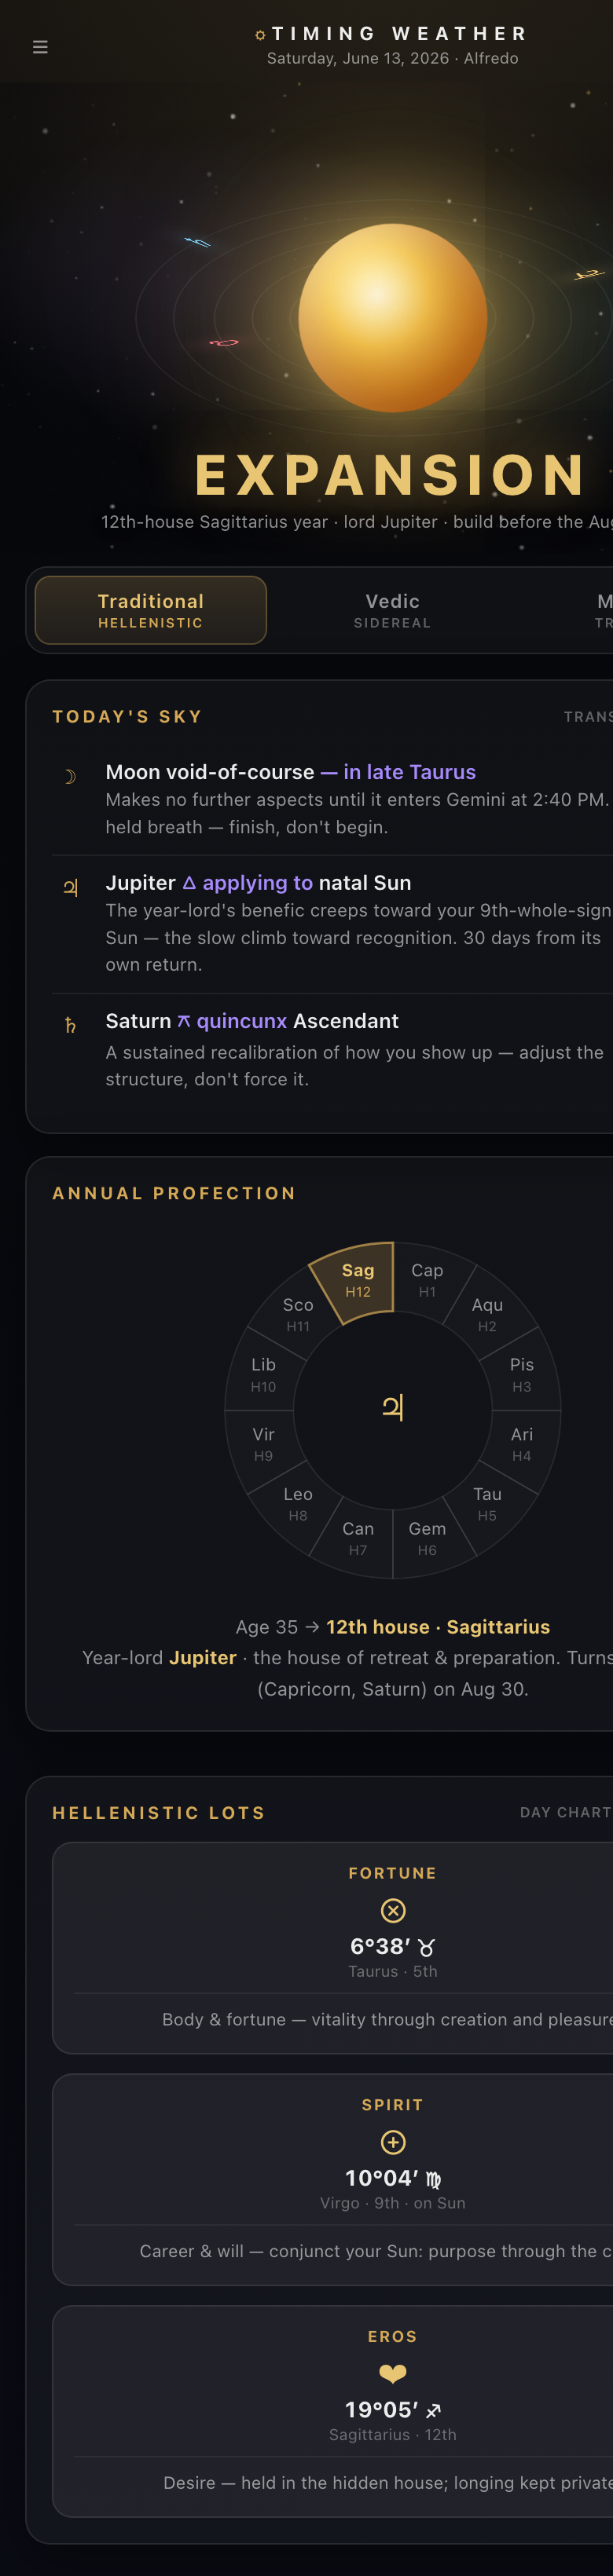
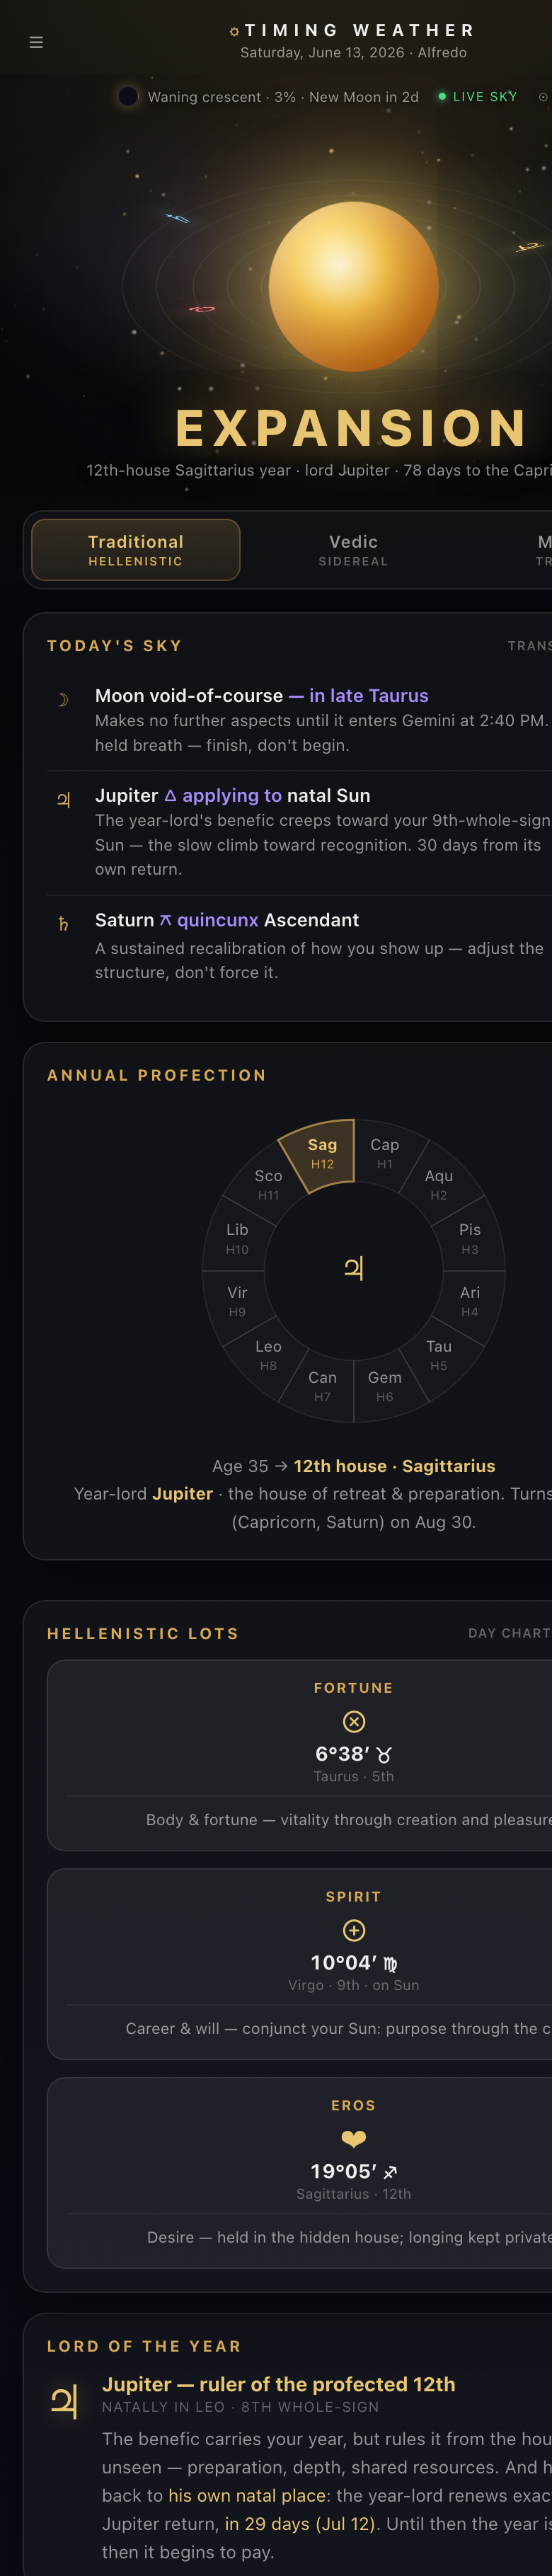
feat(three-lens): live compute + aspect grid + lord-of-year + desktop
ALL FOUR threads: (1) hero shows real moon phase, current Sun longitude, and
profection countdown computed from today's date; (2) added natal Aspect grid
(Modern, computed from authoritative positions) + Lord-of-Year card
(Traditional); (3) Lots/profection/aspects/moon now derived client-side so
they self-update by date; (4) responsive desktop layout (wider shell, grander
hero, 2-col card rows). D9 left as stated key placements (not fabricated —
computed navamsa conflicts with the authoritative Gemini lagna). Mockup only.

diff --git a/timing-weather/design_exploration_2026-06-12/three-lens-dashboard.html b/timing-weather/design_exploration_2026-06-12/three-lens-dashboard.html
@@ -167,6 +167,46 @@ body{font-family:var(--sans);color:var(--t);-webkit-font-smoothing:antialiased;m
 .contrast .prose{font-style:italic;color:var(--gold-br)}
 
 .foot-tag{text-align:center;font-size:10px;color:var(--t3);margin-top:8px;letter-spacing:.03em}
+
+/* moon phase + current sky (hero) */
+.skybar{position:absolute;left:0;right:0;top:8px;z-index:5;display:flex;justify-content:center;gap:14px;font-size:10px;color:var(--t2);text-shadow:0 1px 6px rgba(0,0,0,.9)}
+.skybar .it{display:inline-flex;align-items:center;gap:6px}
+.moondisc{width:15px;height:15px;border-radius:50%;background:#0c0c14;position:relative;overflow:hidden;box-shadow:0 0 8px rgba(232,197,115,.35),inset 0 0 0 1px rgba(255,255,255,.12)}
+.moondisc i{position:absolute;inset:0;background:radial-gradient(circle at 35% 35%,#fff,#d9d2b0 70%,#b8b090)}
+.live-chip{display:inline-flex;align-items:center;gap:5px;font-size:9px;letter-spacing:.08em;text-transform:uppercase;color:var(--green)}
+.live-chip .dot{width:5px;height:5px;border-radius:50%;background:var(--green);box-shadow:0 0 6px var(--green)}
+
+/* aspect grid */
+.asp{display:flex;flex-direction:column}
+.asprow{display:grid;grid-template-columns:1fr auto auto;align-items:center;gap:10px;padding:8px 0;border-bottom:1px solid var(--line);font-size:13px}
+.asprow:last-child{border-bottom:none}
+.asprow .pair b{font-family:var(--sans)}
+.asprow .sym{font-size:15px;color:var(--violet)}
+.asprow .orb{font-size:10px;color:var(--t3);font-variant-numeric:tabular-nums}
+.asprow .nm{font-size:9px;letter-spacing:.06em;text-transform:uppercase;color:var(--t3);width:74px;text-align:right}
+.asp .hard .sym{color:var(--orange)}.asp .soft .sym{color:var(--cyan)}.asp .conj .sym{color:var(--gold-br)}
+
+/* lord of year */
+.loy{display:flex;gap:14px;align-items:flex-start}
+.loy .big{font-size:34px;color:var(--gold-br);line-height:1;filter:drop-shadow(0 0 8px rgba(212,168,87,.4))}
+.loy .b .h{font-size:14px;font-weight:700;color:var(--gold-br)}
+.loy .b .sub{font-size:10px;color:var(--t3);text-transform:uppercase;letter-spacing:.06em;margin:2px 0 7px}
+.loy .b p{font-size:12.5px;line-height:1.6;color:var(--t2)}
+
+/* ── DESKTOP / iPad: wider shell, grander hero, denser rows ── */
+@media(min-width:860px){
+  .shell{max-width:1040px;padding:0 28px}
+  .solar{height:360px;margin:6px -28px 14px}
+  .sun{width:150px;height:150px;margin:-75px 0 0 -75px;top:180px}
+  .field{top:180px}
+  .solar .label .ph{font-size:52px;letter-spacing:.16em}
+  .solar .label{bottom:24px}
+  .lensnav button{font-size:14px;padding:12px}
+  .lensnav button .sm{font-size:9.5px}
+  .cols2{grid-template-columns:1fr 1fr}     /* keep two-up on wide screens */
+  .lots{grid-template-columns:repeat(3,1fr)}
+  .dchart{grid-template-rows:repeat(4,72px)}
+}
 </style>
 </head>
 <body>
@@ -185,7 +225,12 @@ body{font-family:var(--sans);color:var(--t);-webkit-font-smoothing:antialiased;m
     <div class="field" id="field"></div>
     <div class="sun"></div>
     <div class="vig"></div>
-    <div class="label"><div class="ph">EXPANSION</div><div class="sub">12th-house Sagittarius year · lord Jupiter · build before the August turn</div></div>
+    <div class="skybar">
+      <span class="it"><span class="moondisc"><i id="moon-lit"></i></span><span id="moon-txt">—</span></span>
+      <span class="it"><span class="live-chip"><span class="dot"></span>Live sky</span></span>
+      <span class="it" id="sky-sun">☉ —</span>
+    </div>
+    <div class="label"><div class="ph">EXPANSION</div><div class="sub" id="hero-sub">12th-house Sagittarius year · lord Jupiter · build before the August turn</div></div>
   </div>
 
   <!-- LENS NAV -->
@@ -220,6 +265,11 @@ body{font-family:var(--sans);color:var(--t);-webkit-font-smoothing:antialiased;m
             <div class="lot"><div class="name">Eros</div><div class="glyph">❤</div><div class="pos">19°05′ ♐</div><div class="hs">Sagittarius · 12th</div><div class="mean">Desire — held in the hidden house; longing kept private.</div></div>
           </div>
         </div>
+      </div>
+
+      <div class="card">
+        <div class="sh">Lord of the Year</div>
+        <div class="loy"><div class="big">♃</div><div class="b"><div class="h">Jupiter — ruler of the profected 12th</div><div class="sub">natally in Leo · 8th whole-sign</div><p>The benefic carries your year, but rules it from the houses of the unseen — preparation, depth, shared resources. And he is walking back to <span style="color:var(--gold-br)">his own natal place</span>: the year-lord renews exactly at the Jupiter return, <span style="color:var(--gold-br)" id="loy-days">~Jul 12</span>. Until then the year is setup; from then it begins to pay.</p></div></div>
       </div>
     </section>
 
@@ -283,6 +333,11 @@ body{font-family:var(--sans);color:var(--t);-webkit-font-smoothing:antialiased;m
         <div class="sh">Natal Wheel <span class="sub">tropical · Placidus · all planets</span></div>
         <svg viewBox="0 0 300 300" id="wheel" style="width:100%;height:auto;max-width:330px;display:block;margin:0 auto"></svg>
         <div class="legend" id="legend"></div>
+      </div>
+
+      <div class="card">
+        <div class="sh">Natal Aspects <span class="sub">tightest orbs · computed</span></div>
+        <div class="asp" id="aspect-list"></div>
       </div>
 
       <div class="card">
@@ -415,6 +470,55 @@ function noEmoji(root){
   sl.addEventListener('touchend',e=>{const dx=e.changedTouches[0].clientX-sx;if(Math.abs(dx)<50)return;
     const order=['trad','vedic','modern'];const cur=order.indexOf(document.querySelector('.slide.on').dataset.lens);
     const ni=Math.max(0,Math.min(2,cur+(dx<0?1:-1)));nav.children[ni].click();});
+})();
+
+/* ---- LIVE ASTRO COMPUTE — derived client-side from natal constants + today ---- */
+(function(){
+  const NAT={ASC:278.35,Sun:157.23,Moon:275.52,Mercury:172.17,Venus:140.8,Mars:59.7,Jupiter:122.6,
+    Saturn:289.13,Uranus:275.68,Neptune:281.93,Pluto:225.32,Node:306.98,MC:213.9};
+  const GLY=['♈','♉','♊','♋','♌','♍','♎','♏','♐','♑','♒','♓'];
+  const now=new Date();
+  const fmtDeg=x=>{x=((x%360)+360)%360;const s=Math.floor(x/30);return Math.floor(x-30*s)+'°'+GLY[s];};
+
+  // moon phase — ref new moon 2000-01-06 18:14 UTC, synodic month
+  const syn=29.530588853, ref=Date.UTC(2000,0,6,18,14);
+  const ageM=(((now-ref)/86400000)%syn+syn)%syn;
+  const illum=Math.round((1-Math.cos(2*Math.PI*ageM/syn))/2*100);
+  const waxing=ageM<syn/2, toNew=Math.max(1,Math.round((syn-ageM)%syn));
+  let phase; if(ageM<1||ageM>syn-1)phase='New Moon';else if(ageM<6.4)phase='Waxing crescent';
+    else if(ageM<8.6)phase='First quarter';else if(ageM<13.8)phase='Waxing gibbous';
+    else if(ageM<15.8)phase='Full Moon';else if(ageM<21.1)phase='Waning gibbous';
+    else if(ageM<23.3)phase='Last quarter';else phase='Waning crescent';
+  const mt=document.getElementById('moon-txt'); if(mt)mt.textContent=`${phase} · ${illum}% · New Moon in ${toNew}d`;
+  const lit=document.getElementById('moon-lit');
+  if(lit)lit.style.clipPath=waxing?`inset(0 ${100-illum}% 0 0)`:`inset(0 0 0 ${100-illum}%)`;
+
+  // approx current Sun longitude (from ~2026 vernal equinox)
+  const eqx=Date.UTC(2026,2,20,14,0); let sun=((now-eqx)/86400000*0.98565)%360; sun=((sun%360)+360)%360;
+  const ss=document.getElementById('sky-sun'); if(ss)ss.textContent='☉ '+fmtDeg(sun);
+
+  // profection from birth 1990-08-30
+  const m=now.getUTCMonth(),d=now.getUTCDate(); const had=(m>7)||(m===7&&d>=30);
+  let ageY=now.getUTCFullYear()-1990; if(!had)ageY--; const house=(ageY%12)+1;
+  const turn=Date.UTC(now.getUTCFullYear()+(had?1:0),7,30); const dTurn=Math.ceil((turn-now)/86400000);
+  // Jupiter return Jul 12 2026
+  const dJR=Math.ceil((Date.UTC(2026,6,12)-now)/86400000);
+  const loy=document.getElementById('loy-days'); if(loy)loy.textContent=dJR>0?`in ${dJR} days (Jul 12)`:'Jul 12';
+  const hs=document.getElementById('hero-sub');
+  if(hs&&house===12)hs.textContent=`12th-house Sagittarius year · lord Jupiter · ${dTurn} days to the Capricorn turn`;
+
+  // natal aspects (major, tightest first)
+  const order=Object.keys(NAT);
+  const ASP=[['☌',0,7,'conj','Conjunction'],['☍',180,7,'hard','Opposition'],['△',120,6,'soft','Trine'],['□',90,6,'hard','Square'],['⚹',60,4,'soft','Sextile']];
+  const found=[];
+  for(let i=0;i<order.length;i++)for(let j=i+1;j<order.length;j++){
+    let dd=Math.abs(NAT[order[i]]-NAT[order[j]])%360; if(dd>180)dd=360-dd;
+    for(const[sym,deg,orb,cls,nm]of ASP){const o=Math.abs(dd-deg);if(o<=orb){found.push({a:order[i],b:order[j],sym,cls,nm,orb:o});break;}}
+  }
+  found.sort((x,y)=>x.orb-y.orb);
+  const list=document.getElementById('aspect-list');
+  if(list)found.slice(0,8).forEach(f=>{const r=document.createElement('div');r.className='asprow '+f.cls;
+    r.innerHTML=`<span class="pair"><b>${f.a}</b> <span class="sym">${f.sym}</span> <b>${f.b}</b></span><span class="orb">${f.orb.toFixed(1)}°</span><span class="nm">${f.nm}</span>`;list.appendChild(r);});
 })();
 
 /* run last: strip emoji presentation from all glyphs (HTML + SVG) */